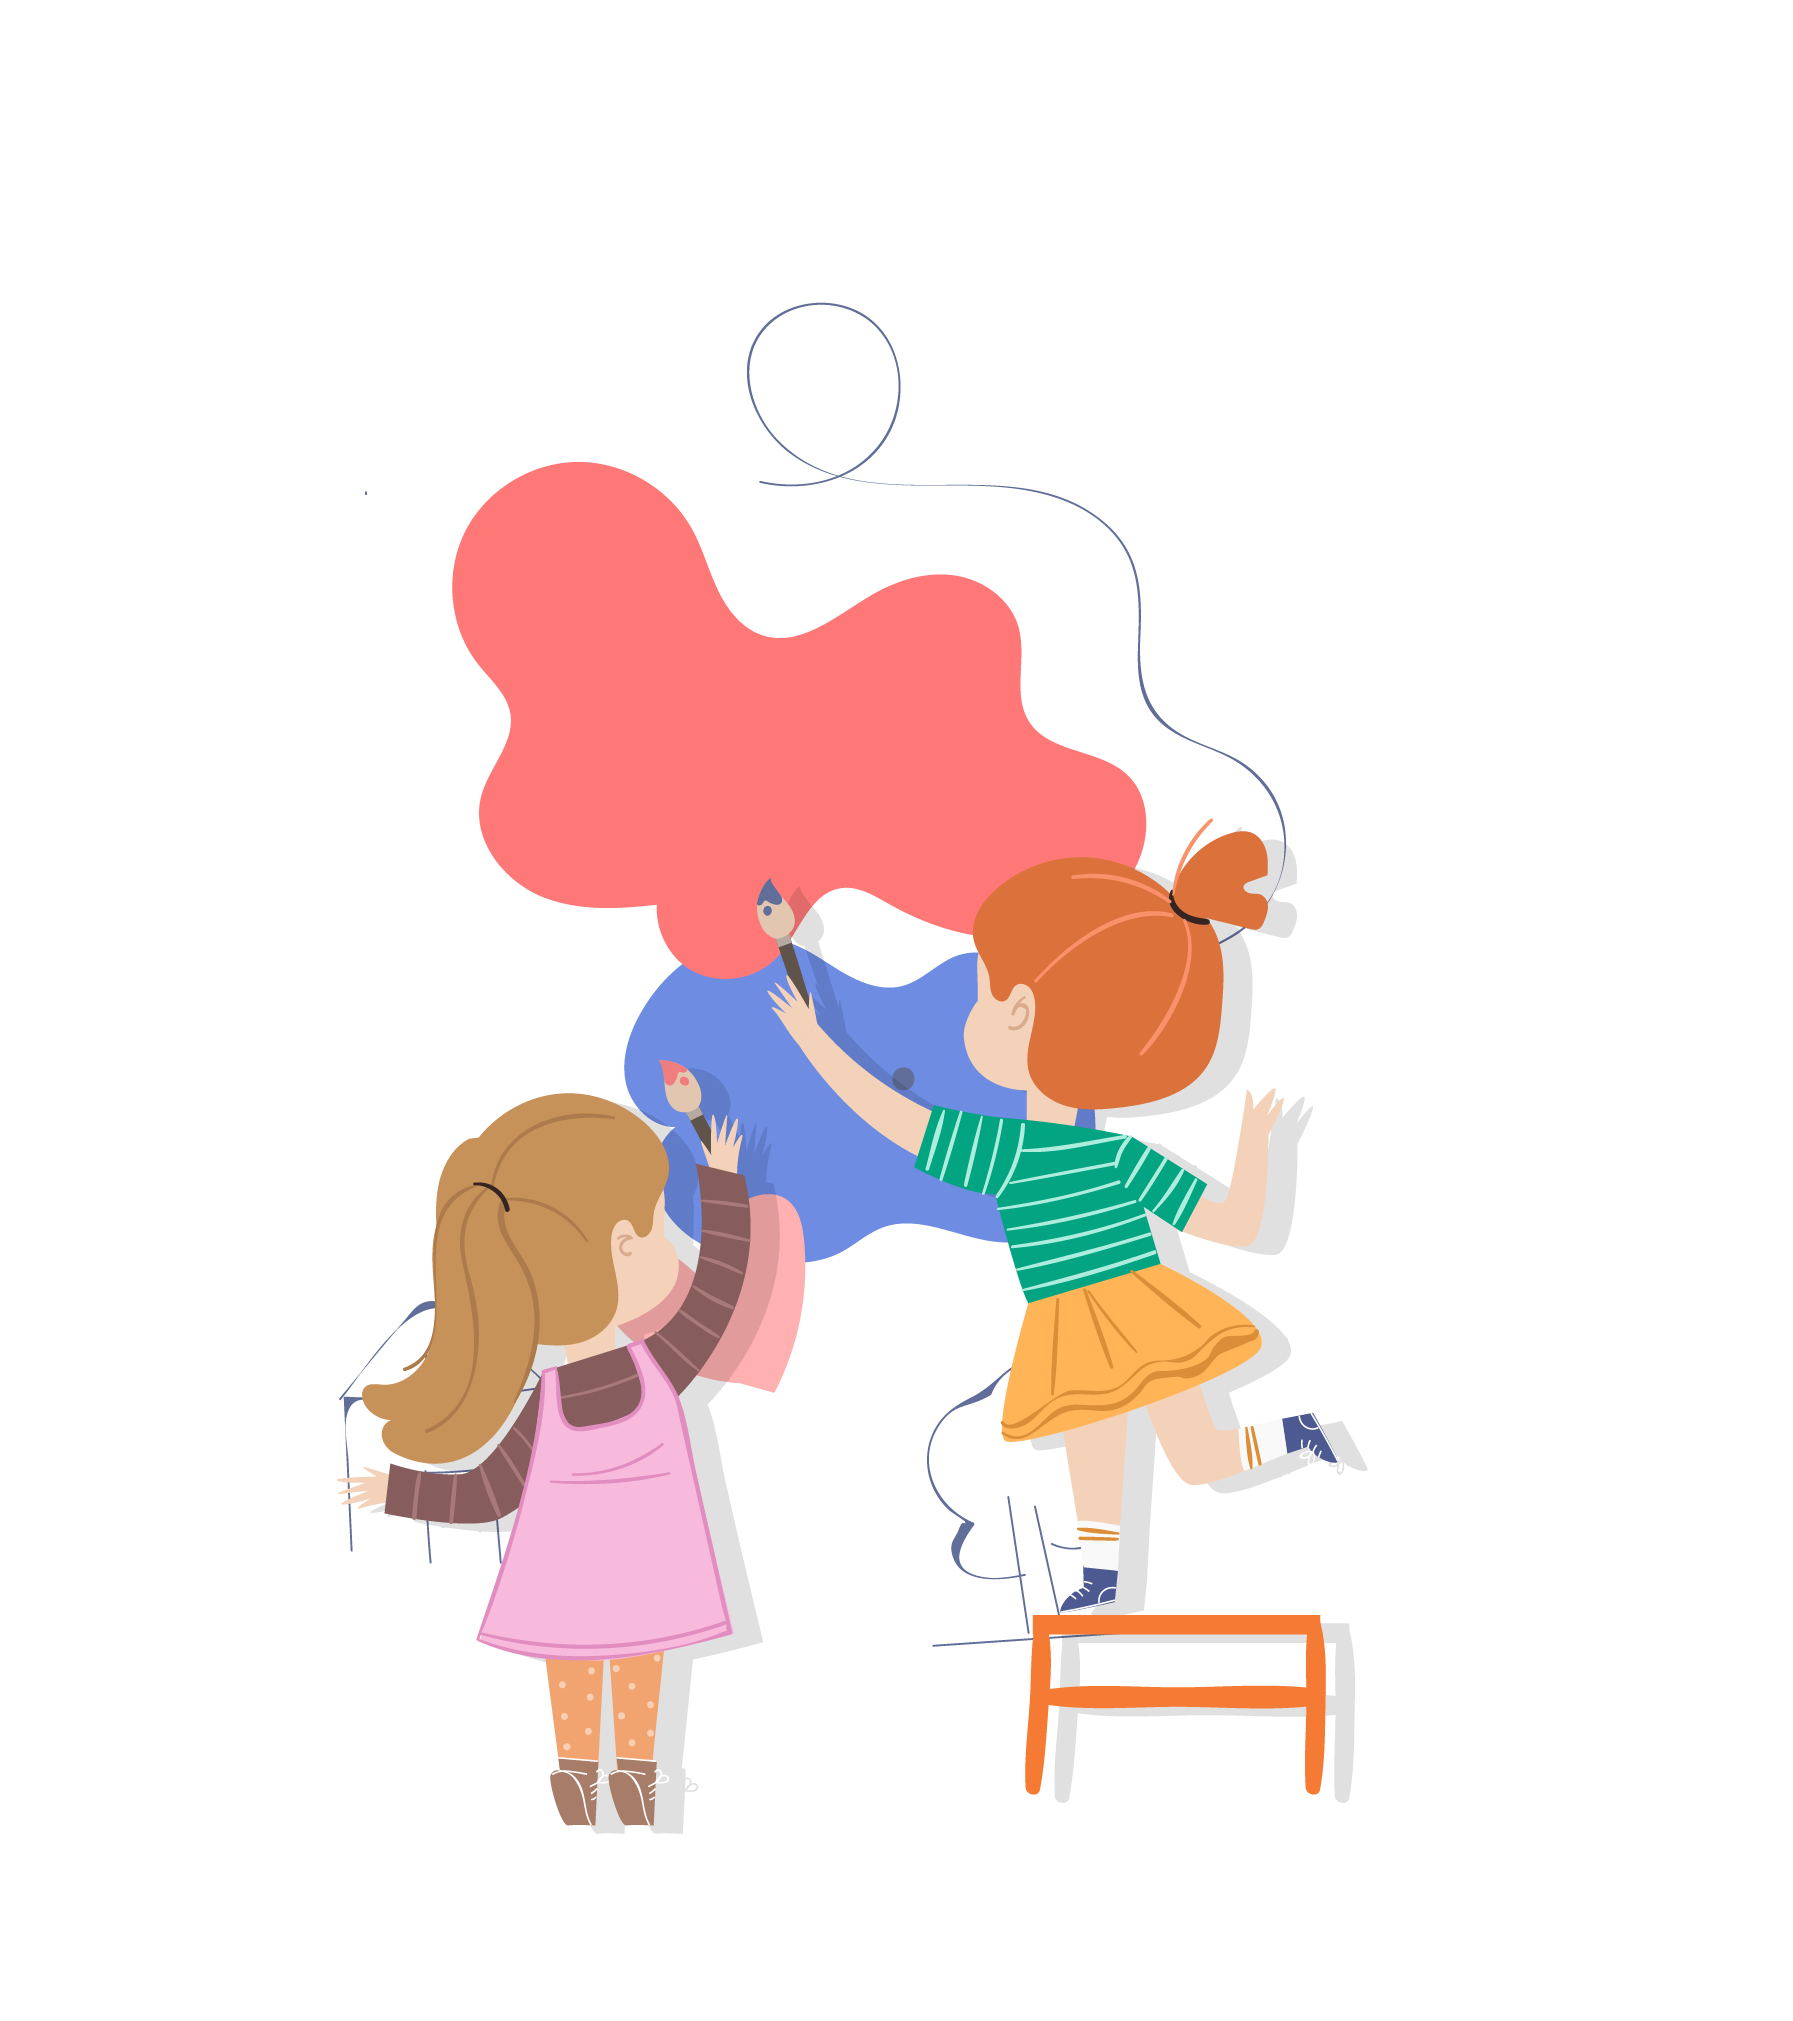
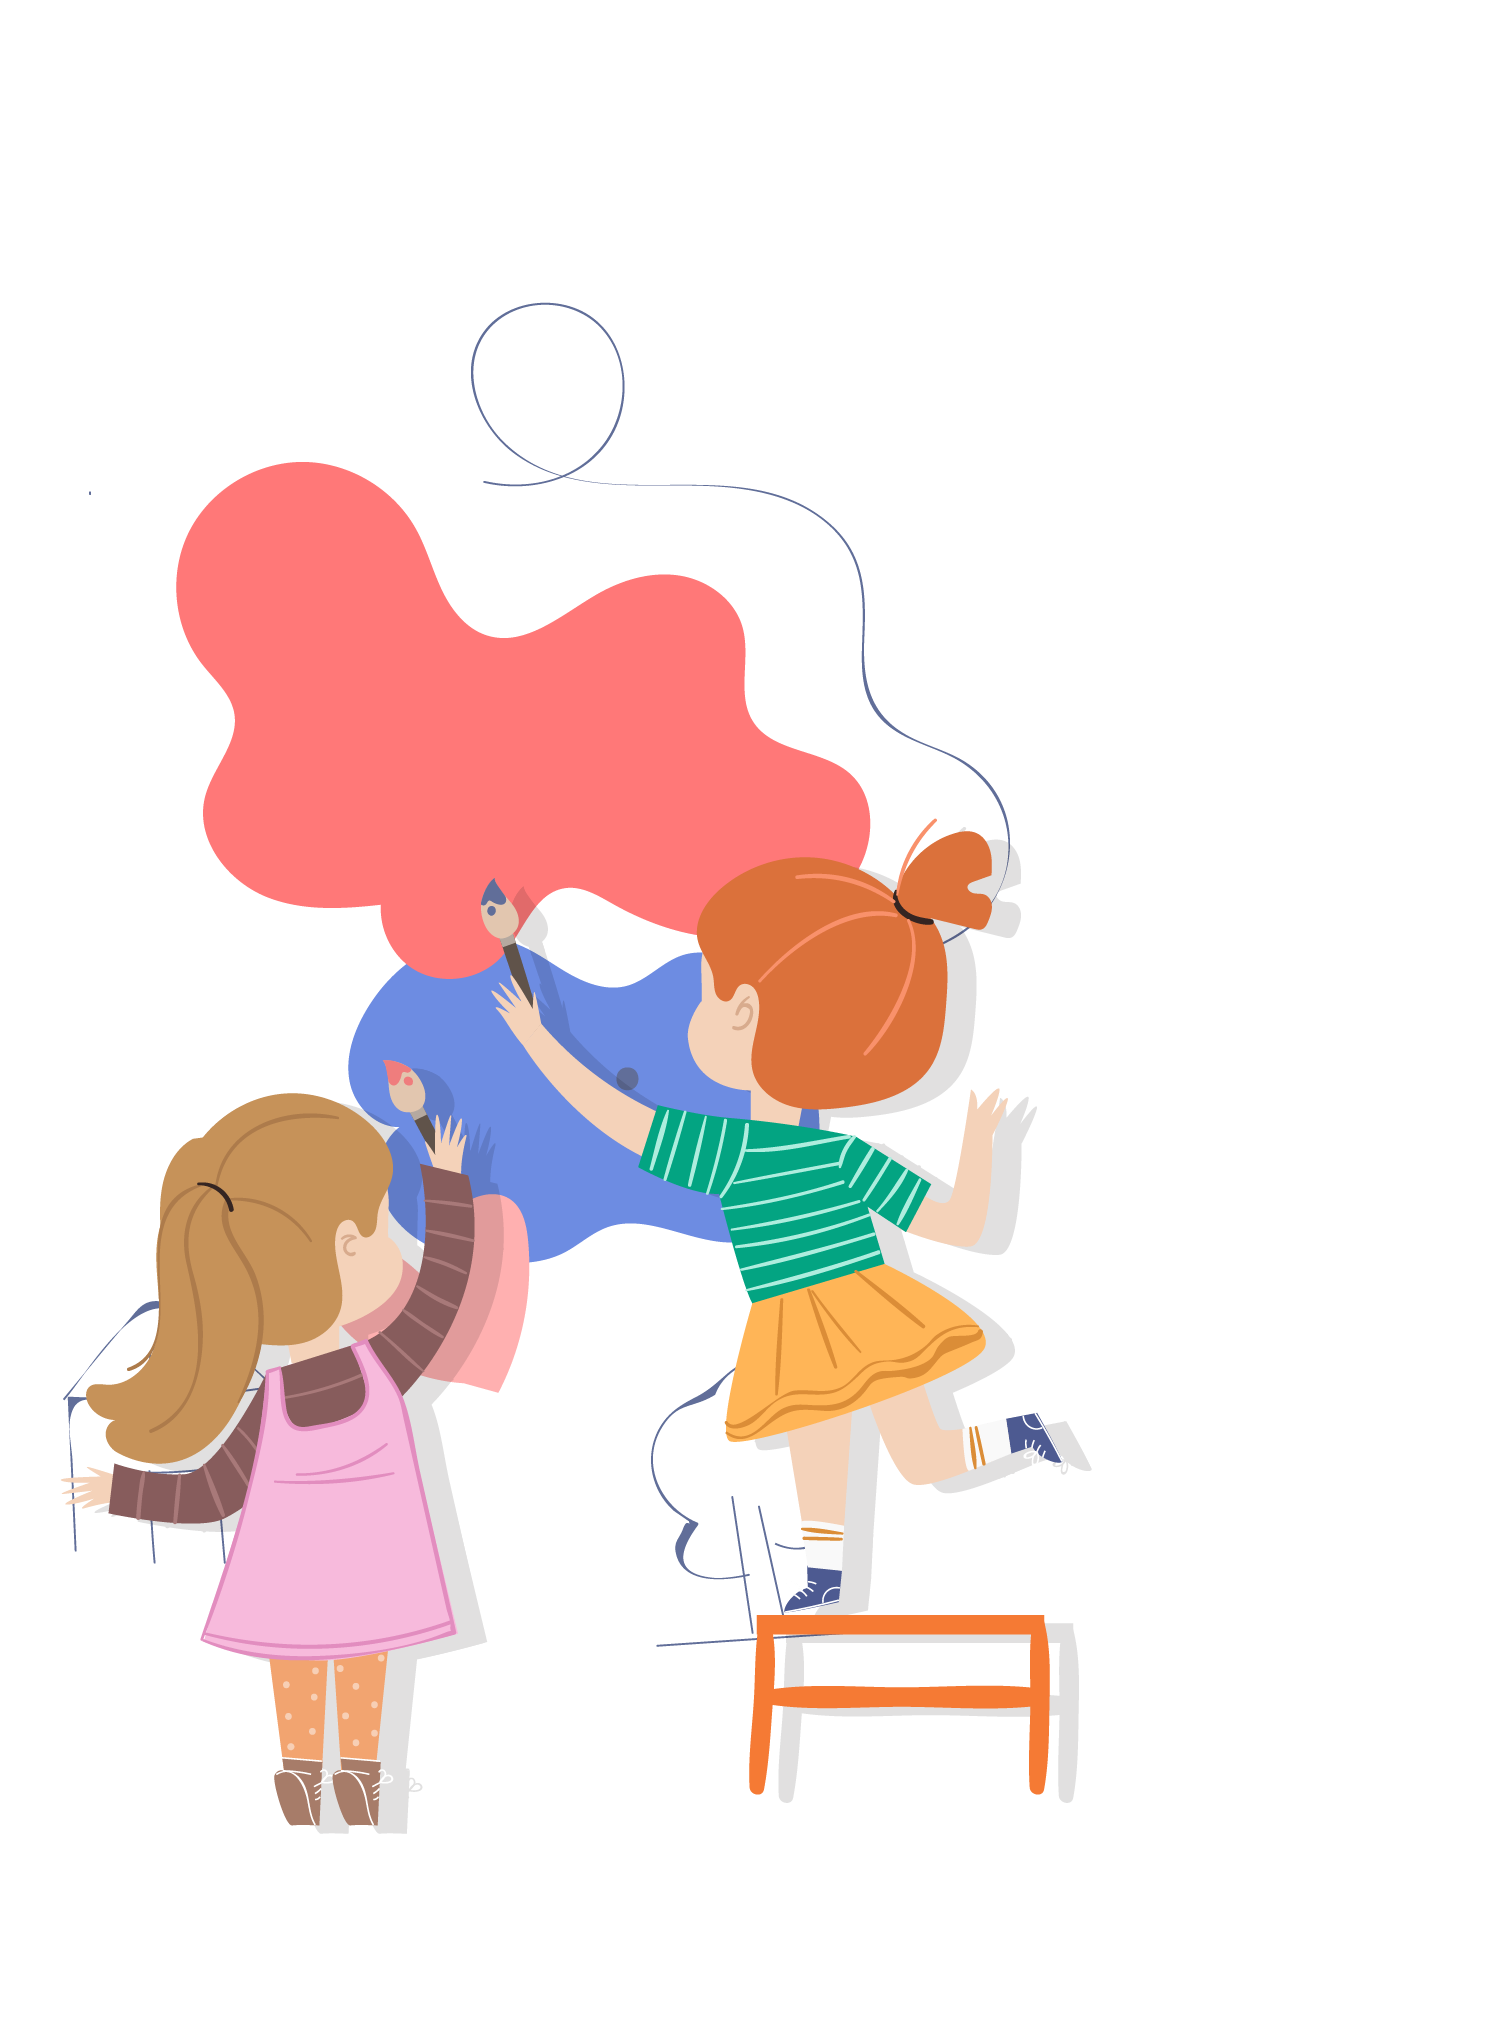
Form created

diff --git a/src/components/Forms/FormRouter.js b/src/components/Forms/FormRouter.js
@@ -14,23 +14,19 @@ export default function RegisterationForm(){
         <div>
             <Container fluid={true}>
                 <Row>
-                    <Col>
-                        <Image className="Images" src={left}/>
+                    <Col style={{zIndex:100}}>
+                        <Image className="Images img-left" src={left}/>
                     </Col>
                     <Col>
-                        <div id="login-box">
-                            <div class="left">
                             <Switch>
                                 <Route exact path={path}><ParentForm /></Route>
                                 <Route exact path={`${path}/parent`}><ParentForm /></Route>
                                 <Route exact path={`${path}/reporter`}><ReporterForm /></Route>
                                 <Route exact path={`${path}/org`}><OrgForm /></Route>
                             </Switch>
-                            </div>
-                        </div>
                     </Col>
-                    <Col>
-                        <Image className="Images" src={right} />
+                    <Col style={{zIndex:100}}>
+                        <Image className="Images img-right" src={right} />
                     </Col>
                 </Row>
             </Container>

diff --git a/src/components/Forms/OrgForm.js b/src/components/Forms/OrgForm.js
@@ -2,12 +2,18 @@ import React from 'react'
 
 function OrgForm() {
     return (
-        <div>
-            <h1>Sign up</h1>
-            <input type="text" name="username" placeholder="Username" />
-            <input type="text" name="email" placeholder="E-mail" />
-            <input type="text" name="address" placeholder="Address" />
-            <input type="submit" name="signup_submit" value="Sign me up" />           
+        <div id="login-box" style={{height: "450px"}}>
+            <div class="left">
+                <div style={{paddingLeft: "2rem", paddingRight: "2rem"}}>
+                    <h1>Sign up</h1>
+                    <input type="text" name="name" placeholder="Organisation Name" />
+                    <input type="text" name="email" placeholder="E-mail" />
+                    <input type="text" name="address" placeholder="Address" />
+                    <input type="text" name="description" placeholder="Description" />
+                    <input type="text" name="website" placeholder="Website" />
+                    <input type="submit" name="signup_submit" value="Sign me up" />           
+                </div>
+            </div>
         </div>
     )
 }

diff --git a/src/components/Forms/Form.css b/src/components/Forms/Form.css
@@ -6,7 +6,7 @@
 body {
   margin: 0;
   padding: 0;
-  background: #DDD;
+  background: #fbfafa;
   font-size: 16px;
   color: #222;
   font-family: 'Roboto', sans-serif;
@@ -15,12 +15,16 @@ body {
 
 #login-box {
   position: relative;
-  margin: 5% auto;
-  width: 600px;
+  margin: 0% auto;
+  top: 50%;
+  transform: translateY(-40%);
+  width: 500px;
   height: 400px;
   background: #FFF;
   border-radius: 2px;
   box-shadow: 0 2px 4px rgba(0, 0, 0, 0.4);
+  z-index: 5;
+  padding: 0rem 5rem;
 }
 
 .left {
@@ -44,7 +48,7 @@ h1 {
 }
 
 input[type="text"],
-input[type="password"] {
+input[type="password"]{
   display: block;
   box-sizing: border-box;
   margin-bottom: 20px;
@@ -107,8 +111,20 @@ input[type="submit"]:active {
   text-align: center;
 }
 
-.Images {
+.img-left{
     width: 100%;
+    transform: scale(1.10) translateX(10%);
+    z-index: 150;
+    position: relative;
+    margin-top: 10%;
+}
+
+.img-right{
+    width: 100%;
+    transform: scale(1.0) translateX(-5%);
+    z-index: 150;
+    position: relative;
+    margin-top: 1%;
 }
 
 button.social-signin {

diff --git a/src/components/Forms/ParentForm.js b/src/components/Forms/ParentForm.js
@@ -2,12 +2,16 @@ import React from 'react'
 
 function ParentForm() {
     return (
-        <div>
-            <h1>Sign up</h1>
-            <input type="text" name="name" placeholder="Name of Guardian" />
-            <input type="text" name="email" placeholder="E-mail" />
-            <input type="text" name="address" placeholder="Address" />
-            <input type="submit" name="signup_submit" value="Sign me up" />           
+        <div id="login-box">
+            <div class="left">
+                <div style={{paddingLeft: "2rem", paddingRight: "2rem"}}>
+                    <h1>Sign up</h1>
+                    <input type="text" name="name" placeholder="Guardian Name" />
+                    <input type="text" name="email" placeholder="E-mail" />
+                    <input type="text" name="address" placeholder="Address" />
+                    <input type="submit" name="signup_submit" value="Sign me up" />           
+                </div>
+            </div>
         </div>
     )
 }

diff --git a/src/components/Forms/ReporterForm.js b/src/components/Forms/ReporterForm.js
@@ -2,12 +2,16 @@ import React from 'react'
 
 function ReporterForm() {
     return (
-        <div>
-            <h1>Sign up</h1>
-            <input type="text" name="username" placeholder="Username" />
-            <input type="text" name="email" placeholder="E-mail" />
-            <input type="text" name="address" placeholder="Address" />
-            <input type="submit" name="signup_submit" value="Sign me up" />           
+        <div id="login-box">
+            <div class="left">
+                <div style={{paddingLeft: "2rem", paddingRight: "2rem"}}>
+                    <h1>Sign up</h1>
+                    <input type="text" name="name" placeholder="Your Name" />
+                    <input type="text" name="email" placeholder="E-mail" />
+                    <input type="text" name="address" placeholder="Address" />
+                    <input type="submit" name="signup_submit" value="Sign me up" />           
+                </div>
+            </div>
         </div>
     )
 }

diff --git a/src/components/Nav.js b/src/components/Nav.js
@@ -9,7 +9,7 @@ function Nav() {
   };
   return (
     <div>
-      <nav>
+      <nav style={{zIndex: 200}}>
         <Link to="/" style={navStyle}>
           <h3>CARE</h3>
         </Link>
